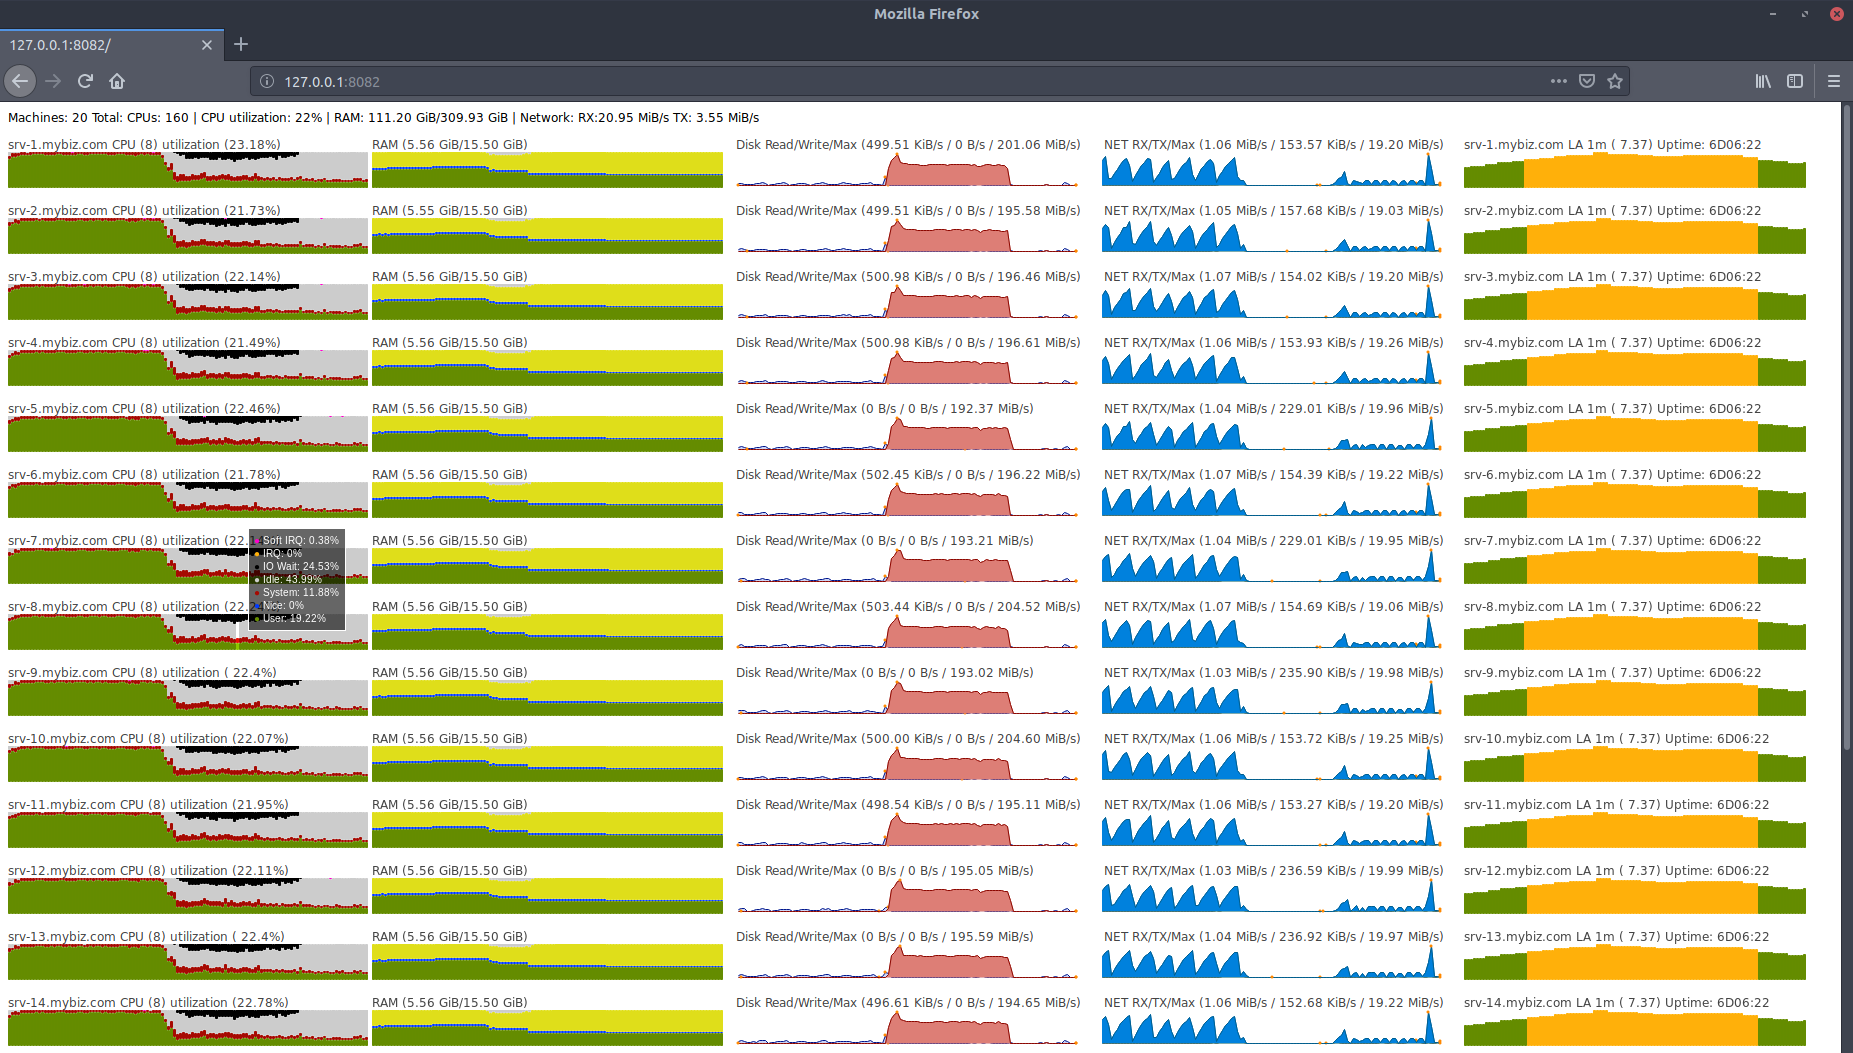
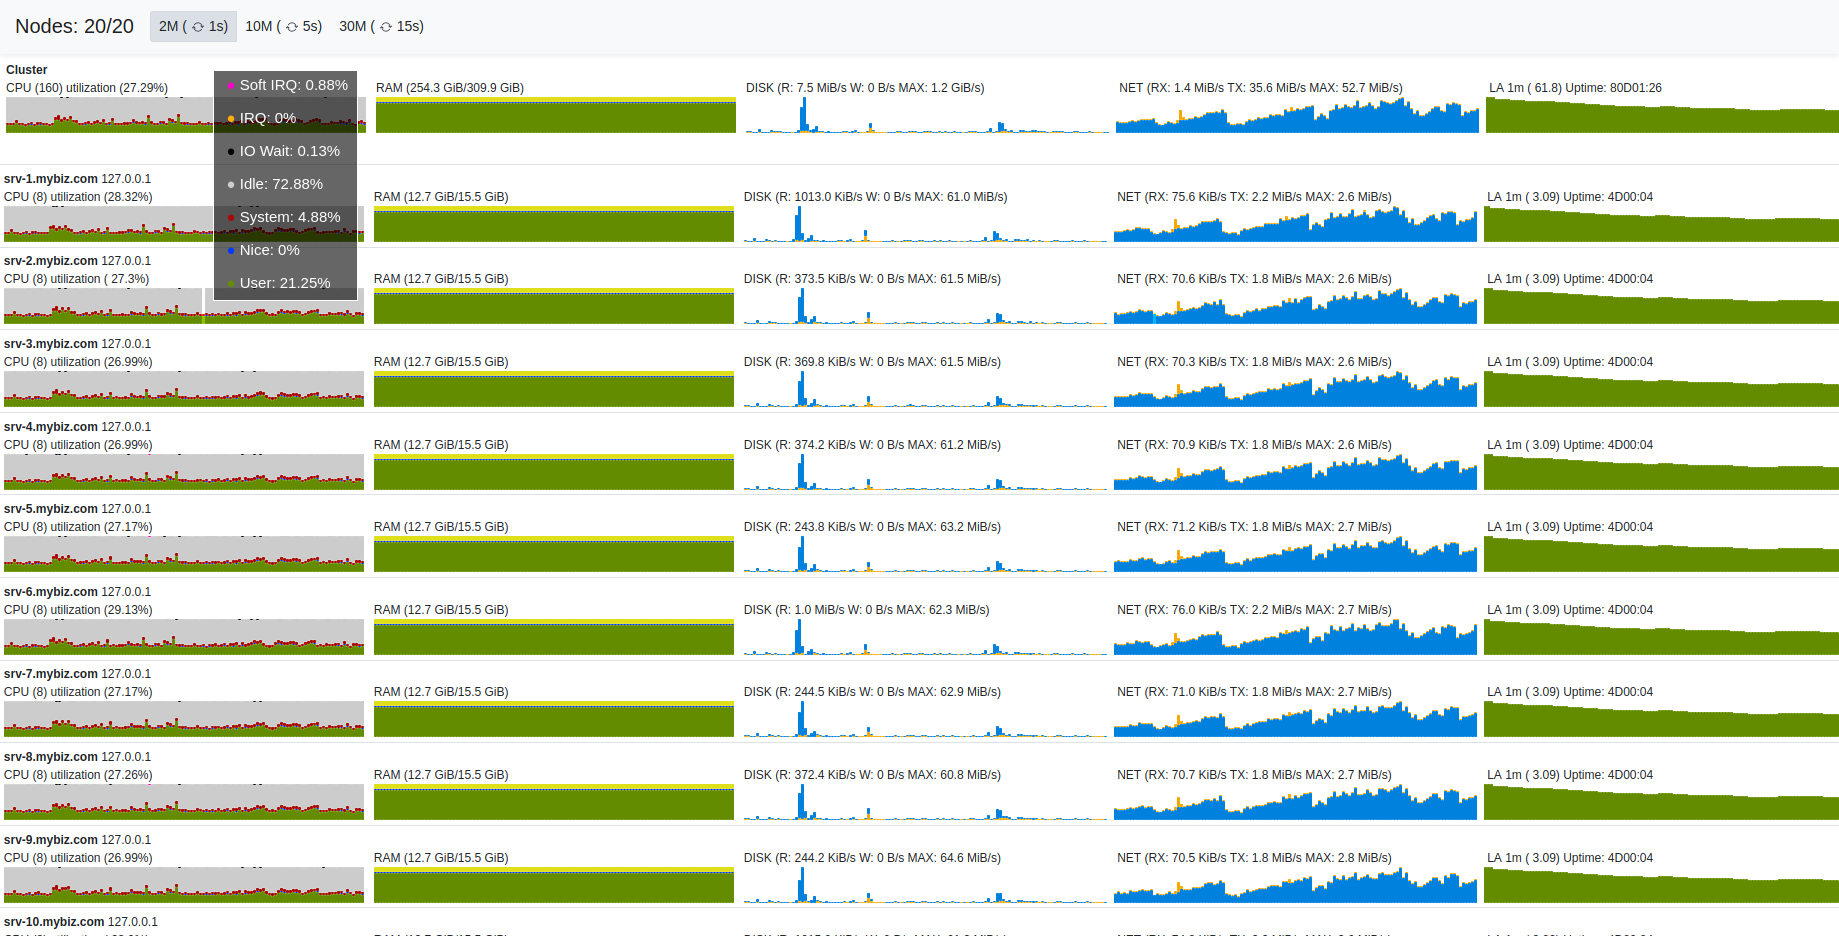
Prepare for new release

diff --git a/static/index.html b/static/index.html
@@ -77,7 +77,7 @@ function Widget() {
             + `<div id="sparkline-load_average"></div>`
             + `</div>`
 
-            + `<div id="space-charts" style="white-space:pre; display: inline-block; width: 36px">`
+            + `<div id="space-charts" style="white-space:pre; display: inline-block; width: 370px">`
             + ` Space (<span id="immediate-space_stat"></span>)`
             + `<div id="sparkline-space"></div>`
             + `</div>`
@@ -237,14 +237,14 @@ function Widget() {
         colorMap[yellowLevel] = '#FFB00A';
         colorMap[redLevel] = '#A60A02';
         colorMap[blackLevel] = '#000000';
-        this.$spaceSparkline.sparkline([thisServer.space.used], {
+        this.$spaceSparkline.sparkline(thisHistory.space_history, {
             type: 'bar',
             height: '3em',
             chartRangeMax: thisServer.space.total,
             chartRangeMin: 0,
             normalRangeMin: 0,
             normalRangeMax: thisServer.space.total,
-            barWidth: 36,
+            barWidth: 3,
             barSpacing: 0,
             drawNormalOnTop: true,
             colorMap: $.range_map(colorMap),
@@ -303,6 +303,7 @@ function MetricProcessor() {
         history.net_bandwidth_history.push([serverMetric.net.up_bandwidth, serverMetric.net.down_bandwidth]);
         history.net_total_bandwidth_history.push(serverMetric.net.down_bandwidth + serverMetric.net.up_bandwidth);
         history.load_average_history.push(serverMetric.la.load_average);
+        history.space_history.push(serverMetric.space.used);
         if (history.cpu_history.length > 120) {
             history.cpu_history.splice(0, 1);
             history.mem_history.splice(0, 1);
@@ -311,6 +312,7 @@ function MetricProcessor() {
             history.net_bandwidth_history.splice(0, 1);
             history.net_total_bandwidth_history.splice(0, 1);
             history.load_average_history.splice(0, 1);
+            history.space_history.splice(0, 1);
         }
 
         storage['disk']['max_disk_throughput'] = Math.max(...history.disk_total_throughput_history);
@@ -339,7 +341,8 @@ function MetricProcessor() {
             disk_total_throughput_history: [serverMetric.disk.read_throughput + serverMetric.disk.write_throughput],
             net_bandwidth_history: [serverMetric.net.up_bandwidth, serverMetric.net.down_bandwidth],
             net_total_bandwidth_history: [serverMetric.net.down_bandwidth + serverMetric.net.up_bandwidth],
-            load_average_history: [serverMetric.la.load_average]
+            load_average_history: [serverMetric.la.load_average],
+            space_history: [serverMetric.space.used]
         };
 
         if (type === "NodeMetrics") {
@@ -471,7 +474,7 @@ $(function() {
 </script>
 </head>
 <body>
-<nav class="navbar navbar-expand-lg navbar-dark bg-secondary shadow-sm">
+<nav class="navbar navbar-expand-lg navbar-light bg-light shadow-sm">
     <a class="navbar-brand" href="#">Nodes: <span id="number-of-machines"></span></a>
     <button class="navbar-toggler" type="button" data-toggle="collapse" data-target="#navbarSupportedContent" aria-controls="navbarSupportedContent" aria-expanded="false" aria-label="Toggle navigation">
         <span class="navbar-toggler-icon"></span>

diff --git a/README.md b/README.md
@@ -16,7 +16,7 @@ Pre built releases are available for [windows and linux](https://github.com/ahea
 ### Features
 Examine health and load patterns via a number of metrics across a small cluster.
 
-For demo purposes all the charts are showing data for the same machine under different hostnames.
+For demo purposes all the charts on the screenshot below are showing data for the same machine under different hostnames.
 ![screenshot](./assets/screenshot.png)
 
 
@@ -35,6 +35,9 @@ For demo purposes all the charts are showing data for the same machine under dif
 ##### Load Average
 ![screenshot](./assets/load-average.gif)
 
+##### Disk Space
+![screenshot](./assets/space.gif)
+
 
 ### Setup
 1. [Download](https://github.com/aheart/hearth/releases) and extract Hearth
@@ -44,7 +47,6 @@ For demo purposes all the charts are showing data for the same machine under dif
 
 ### Limitations
 * Data can only be retrieved via SSH.
-* Only ssh-agent authentication is supported.
 * Only a single network interface can be monitored per server.
 * Only a single disk can be monitored per server.
 * Current UI only works well on wide screens
